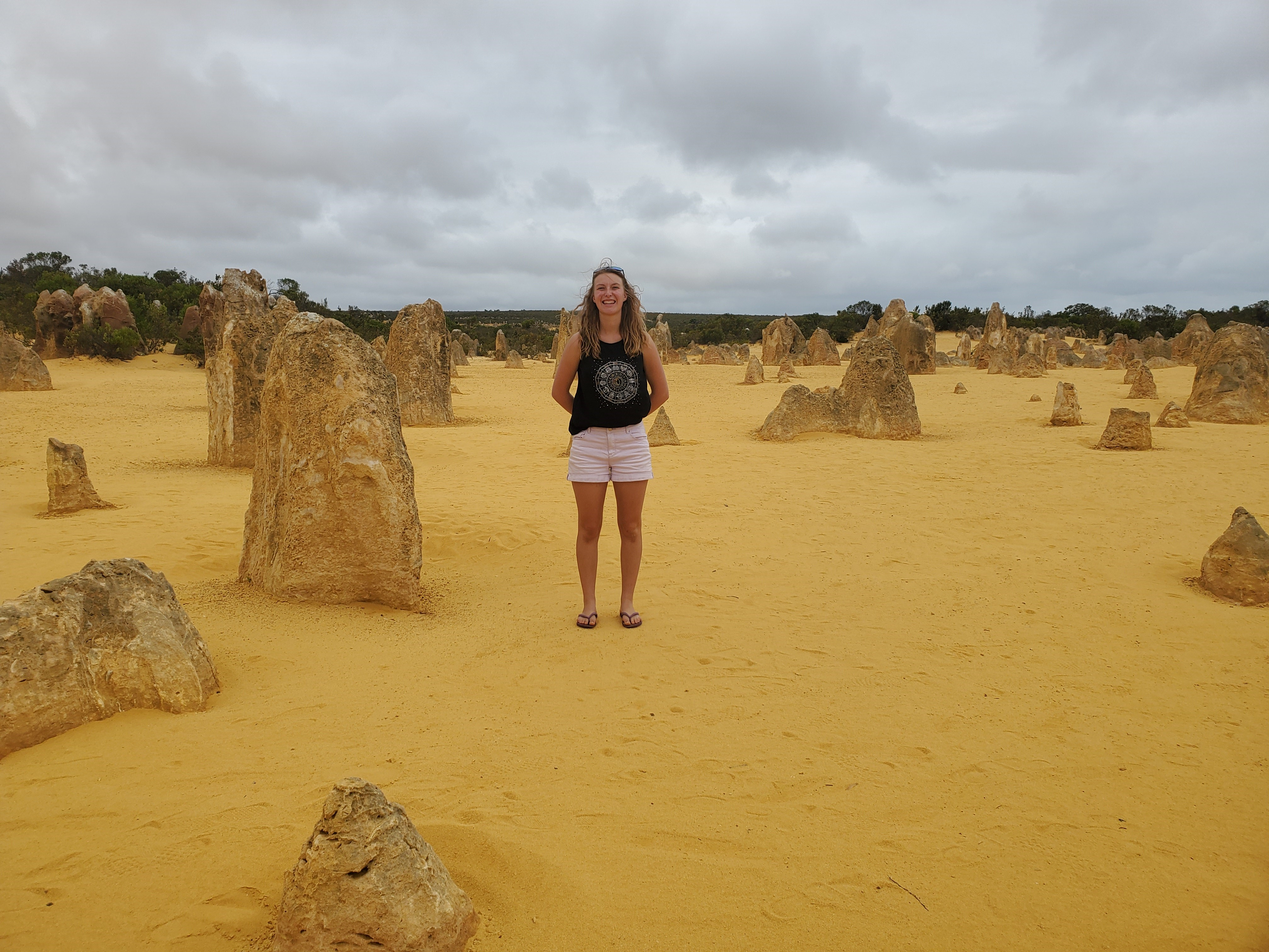
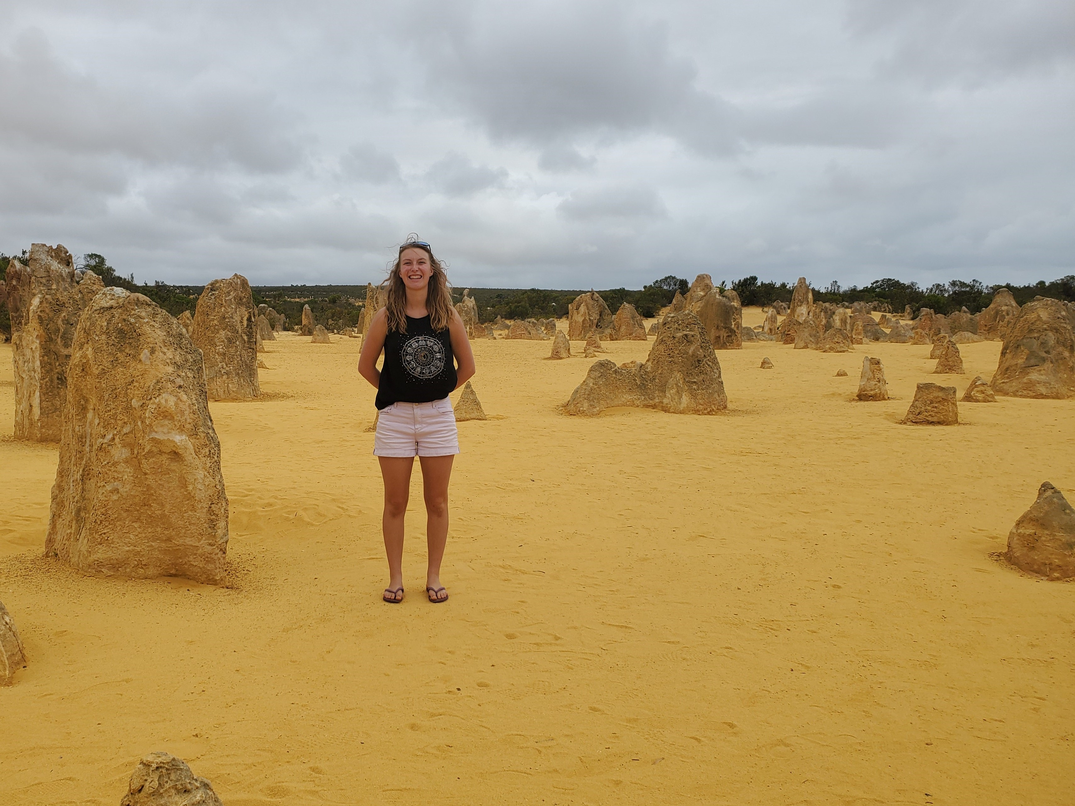
Home Page - phone view fixed
Adjusted width
Added prospective developer tag

diff --git a/styles.css b/styles.css
@@ -58,11 +58,6 @@ header {
     background-color: #8F8CE7;
     z-index: 2;
     cursor: pointer;
-    width: 100%;
-}
-
-.banner-img {
-    width: 100%;
 }
 
 .SL-Title{
@@ -70,7 +65,6 @@ header {
     position: absolute;
     top: 15%;
     left: 35%;
-    /* text-align: center; */
     color: white;
 
     font-size: 1em;
@@ -81,7 +75,7 @@ header {
 .title-move .letter {
     display: inline-block;
     /* line-height: 3em; */
-  }
+} 
 .top-nav{
     position: absolute;
     top: 5%;
@@ -108,16 +102,43 @@ header {
     border-bottom: 2px solid #8246AF;
 }
 
+.rotating-banner img{
+    /* display: flex;
+    justify-content: center; */
+    text-align: center;
+}
+
+.note {
+    position: absolute;
+    color: #B00149;
+    text-align: center;
+    font-family: 'Pacifico', cursive;   
+    font-size: 1em;
+    line-height: 2em;
+    letter-spacing: 4px;
+}
+
+@media(min-width: 1280px) { 
+    .banner-img {
+        width: 100%;
+    }
+    .note {
+        bottom: 10%;
+        right: 14%;
+
+    }
+}
 
 @media(max-width: 1279px) { 
     .rotating-banner img{
-        top: 40%;
-        /* height: 300px; */
-        margin-top: 5%;
+        /* top: 50%; */
+        height: 600px;
+        margin-top: 4%;
+        /* height: 40%; */
     }
     .top-nav{
         top: 0%;
-        max-height: 8%;
+        max-height: 9%;
     }
     .SL-Title{
         position: absolute;
@@ -125,6 +146,16 @@ header {
         left: 35%;
         font-size: 0.8em;
         line-height: 2em;
+    }
+    .banner-img {
+        /* margin-top: 20%; */
+        /* width: 80%; */
+        /* object-fit: cover; */
+    }
+
+    .note {
+        bottom: 10%;
+        left: 14%;
     }
 
 }
@@ -561,6 +592,7 @@ div.main-title img {
         margin-left: 220px; /* Same as the width of the sidenav */
         width:calc(100% - 220px);
     }
+
 }
 
 @media(max-width: 1279px) { 
@@ -571,7 +603,14 @@ div.main-title img {
     }
     form {
         width:98%;
-        margin-top: 15px;
+        margin-top: 0px;
+    }
+    .form-item button {
+        margin-top: 30px;
+    }
+    #social-media2 img {
+        margin: 10px;
+        margin-bottom: 0px;
     }
 }
 

diff --git a/Home.html b/Home.html
@@ -17,21 +17,23 @@
             <div class="rotating-banner"> 
                 <img class="banner-img" src="Portfolio_Img/Samara_GC.jpg">
                 <img class="banner-img" src="Portfolio_Img/Samara_GC2.jpg">
-                <img class="banner-img" src="Portfolio_Img/Samara_Pin.jpg">
-              </div><script src="Rotating-img.js"></script>
+                <img class="banner-img" src="Portfolio_Img/Samara_Pin2.jpg">
+            </div><script src="Rotating-img.js"></script>
             <header class="SL-Title">
                 <h1 class="title-move"> Samara Love </h1>
                 <h1 class="title-move"> Mechatronics Engineer </h1>
                 <script src="https://cdnjs.cloudflare.com/ajax/libs/animejs/2.0.2/anime.min.js"></script>
                 <script src="Portfolio.js"></script>
+                
             </header>
             <nav class="top-nav">
                 <a href="About.html">About</a>
                 <a href="Contact.html">Contact</a>
                 <a href="Projects.html">Projects</a>
             </nav>
-        
+            <h3 class="note"> ~ Prospective Developer ~ </h3>
         </div> <script>document.getElementById("overlay").style.display = "block"; </script>
+
 
     </body>
 </html>
